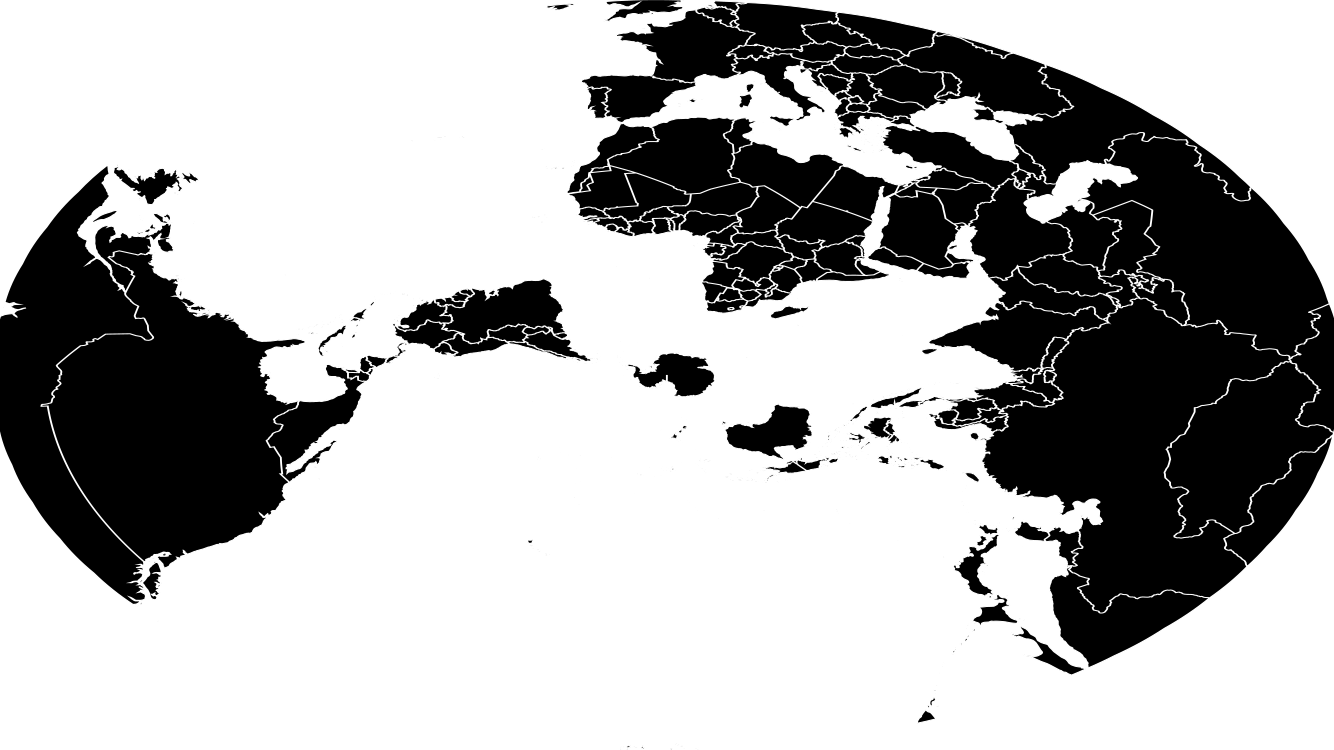
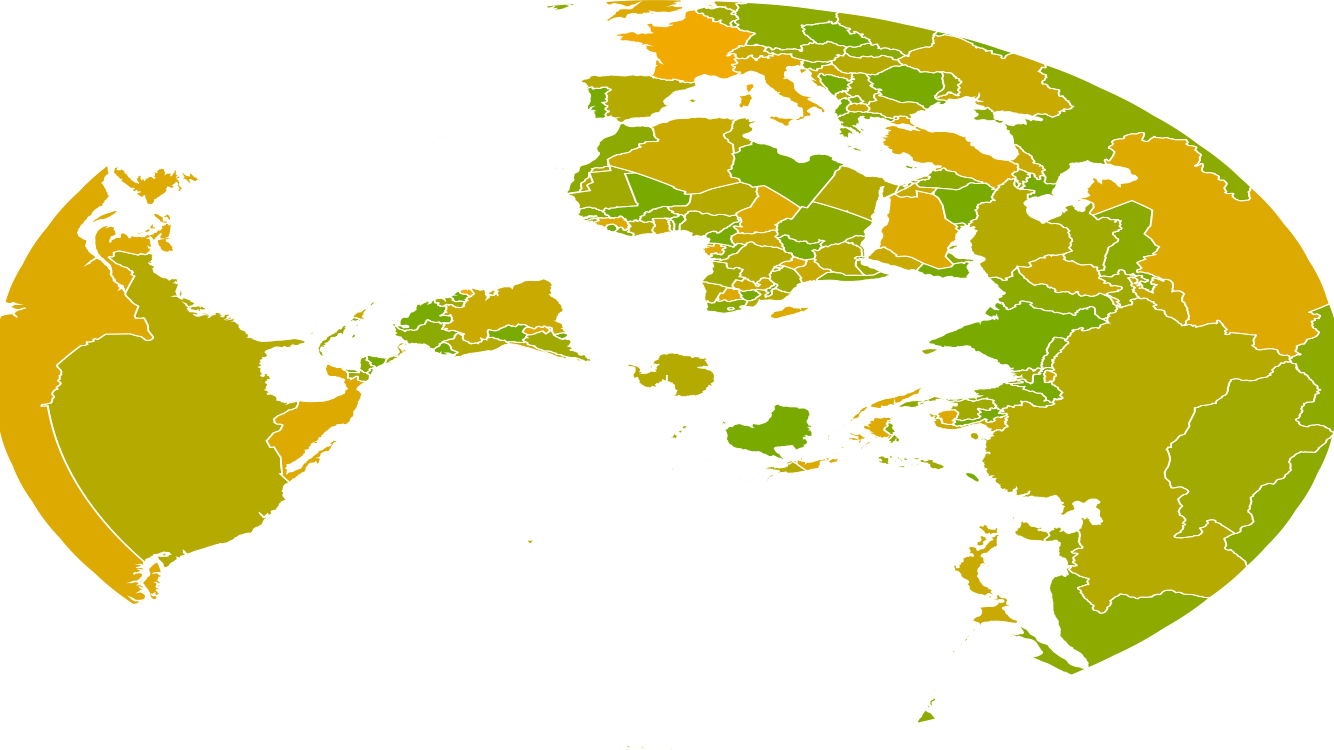
Update map colours in world.js script

diff --git a/world-atlas/world.js b/world-atlas/world.js
@@ -28,10 +28,7 @@ if (typeof(args[1]) !== 'undefined') {
   
 
 
-var Image = Canvas.Image, 
-  canvas = new Canvas(width, height), 
-  context = canvas.getContext('2d');
-
+var Image = Canvas.Image, canvas = new Canvas(width, height), context = canvas.getContext('2d');
 
 
 //  Extract data from the topology file
@@ -41,27 +38,6 @@ var Image = Canvas.Image,
 // var data = JSON.parse(fs.readFileSync("./world/110m2-topo.json", 'utf8'));
 // var data = JSON.parse(fs.readFileSync("./world/50m.json", 'utf8'));
 var data = JSON.parse(fs.readFileSync("./world/" + jsonFile, 'utf8'));
-if (jsonOnly) {
-  var countryData = data.objects.tracts.map(function(f) { 
-    var properties = {};
-    // All properties: 
-    // scalerank,featurecla,LABELRANK,SOVEREIGNT,SOV_A3,ADM0_DIF,LEVEL,TYPE,ADMIN,ADM0_A3,GEOU_DIF,GEOUNIT,GU_A3,SU_DIF,SUBUNIT,SU_A3,BRK_DIFF,NAME,NAME_LONG,BRK_A3,BRK_NAME,BRK_GROUP,ABBREV,POSTAL,FORMAL_EN,FORMAL_FR,NAME_CIAWF,NOTE_ADM0,NOTE_BRK,NAME_SORT,NAME_ALT,MAPCOLOR7,MAPCOLOR8,MAPCOLOR9,MAPCOLOR13,POP_EST,POP_RANK,GDP_MD_EST,POP_YEAR,LASTCENSUS,GDP_YEAR,ECONOMY,INCOME_GRP,WIKIPEDIA,FIPS_10_,ISO_A2,ISO_A3,ISO_A3_EH,ISO_N3,UN_A3,WB_A2,WB_A3,WOE_ID,WOE_ID_EH,WOE_NOTE,ADM0_A3_IS,ADM0_A3_US,ADM0_A3_UN,ADM0_A3_WB,CONTINENT,REGION_UN,SUBREGION,REGION_WB,NAME_LEN,LONG_LEN,ABBREV_LEN,TINY,HOMEPART,MIN_ZOOM,MIN_LABEL,MAX_LABEL
-    properties["NAME"] = f.properties["NAME"];
-    properties["ECONOMY"] = f.properties["ECONOMY"];
-    properties["INCOME_GRP"] = f.properties["INCOME_GRP"];
-    properties["ISO_A2"] = f.properties["ISO_A2"];
-    properties["ISO_A3"] = f.properties["ISO_A3"];
-    if (f.properties["ISO_A3"] == "-99")
-      properties["ISO_A3"] = f.properties["ADM0_A3_IS"];
-    properties["POP_EST"] = f.properties["POP_EST"];
-    properties["SUBREGION"] = f.properties["SUBREGION"];
-    properties["GDP_MD_EST"] = f.properties["GDP_MD_EST"];
-    return properties; 
-  })
-  countryStrs = JSON.stringify(countryData);
-  fs.writeFileSync("./world/countryData.json", countryStrs);
-  return;
-}
 
 // Extract features
 var tracts = topojson.feature(data, data.objects.tracts);
@@ -169,6 +145,22 @@ function writeProj(proj, file) {
   // path(topojson.mesh(data));
   // context.stroke();
 
+  tracts.features.forEach((feature, index) => { 
+
+    var props = tracts.features[index].properties;
+    var col = (100 + parseInt(props.MAPCOLOR7) * 20);
+    if (col > 255)
+      col = 255;
+    context.fillStyle = '#' + col.toString(16)  + 'AA00';
+    console.log(props.MAPCOLOR7 +":"+ col +":"+context.fillStyle);
+    context.beginPath();
+    path(tracts.features[index]);
+    context.fill();
+    context.stroke();
+    context.closePath();
+  } );
+
+  /*
   context.beginPath();
   path(tracts);
   context.fill();
@@ -176,6 +168,7 @@ function writeProj(proj, file) {
   context.beginPath();
   path(tracts);
   context.stroke();
+  */
 
   // Graticule
   var graticule = d3.geoGraticule();
@@ -222,6 +215,10 @@ function writeProj(proj, file) {
     country.POP_EST = props.POP_EST;
     country.SUBREGION = props.SUBREGION;
     country.GDP_MD_EST = props.GDP_MD_EST;
+    country.MAPCOLOR7 = props.MAPCOLOR7;
+    country.MAPCOLOR8 = props.MAPCOLOR8;
+    country.MAPCOLOR9 = props.MAPCOLOR9;
+    country.MAPCOLOR13 = props.MAPCOLOR13;
 
     country_file = country.iso_a3 + '_' + file + '.png';
     if (iso_a3s.indexOf(country.iso_a3) !== -1)

diff --git a/src/app.js b/src/app.js
@@ -387,15 +387,28 @@ var WorldLayer = cc.Layer.extend({
             onMouseMove: function(event){
                 if(event.getButton() == cc.EventMouse.BUTTON_LEFT){
                     var node = event.getCurrentTarget(); 
-                    node.x += event.getDeltaX();
-                    node.y += event.getDeltaY();
+                    var scale = node.getScale();
+                    var size = node.getContentSize();
+                    var scaledX = scale * size.width;
+                    var scaledY = scale * size.height;
+                    console.log(node.x, event.getDeltaX(), scaledX)
+                    // &&
+                    // node.x + event.getDeltaX() + scaledX < size.width &&
+                    // node.Y + event.getDeltaY() + scaledY < size.height
+                    // if (node.x + event.getDeltaX() > 0 && 
+                    //     node.y + event.getDeltaY() > 0 ) {
+                        node.x += event.getDeltaX();
+                        node.y += event.getDeltaY();
+                    // }
                 }
             },
             // Zoom handling
             onMouseScroll: function(event){
                 var node = event.getCurrentTarget(); 
                 var delta = cc.sys.isNative ? event.getScrollY() * 6 : -event.getScrollY();
-                node.setScale(node.getScale() * (1 + delta / 1000.0));
+                var newScale = node.getScale() * (1 + delta / 1000.0);
+                if (newScale <= 10.0 && newScale >= 1.0)
+                    node.setScale(newScale);
             }
         }, this.worldBackground);
 
